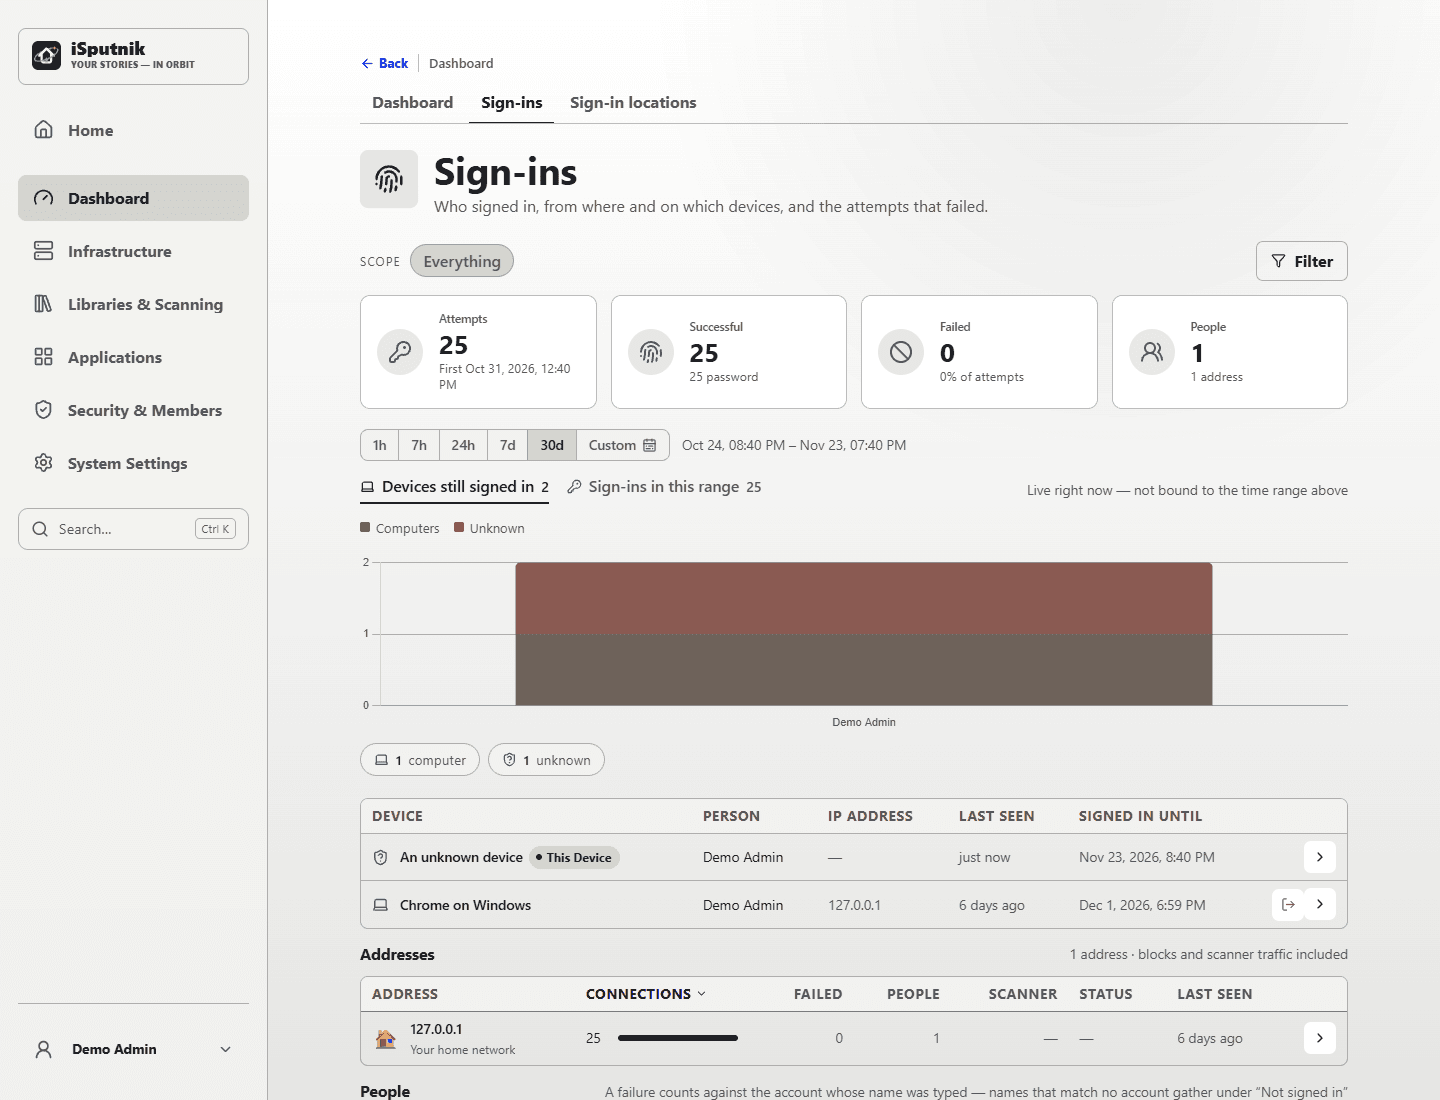
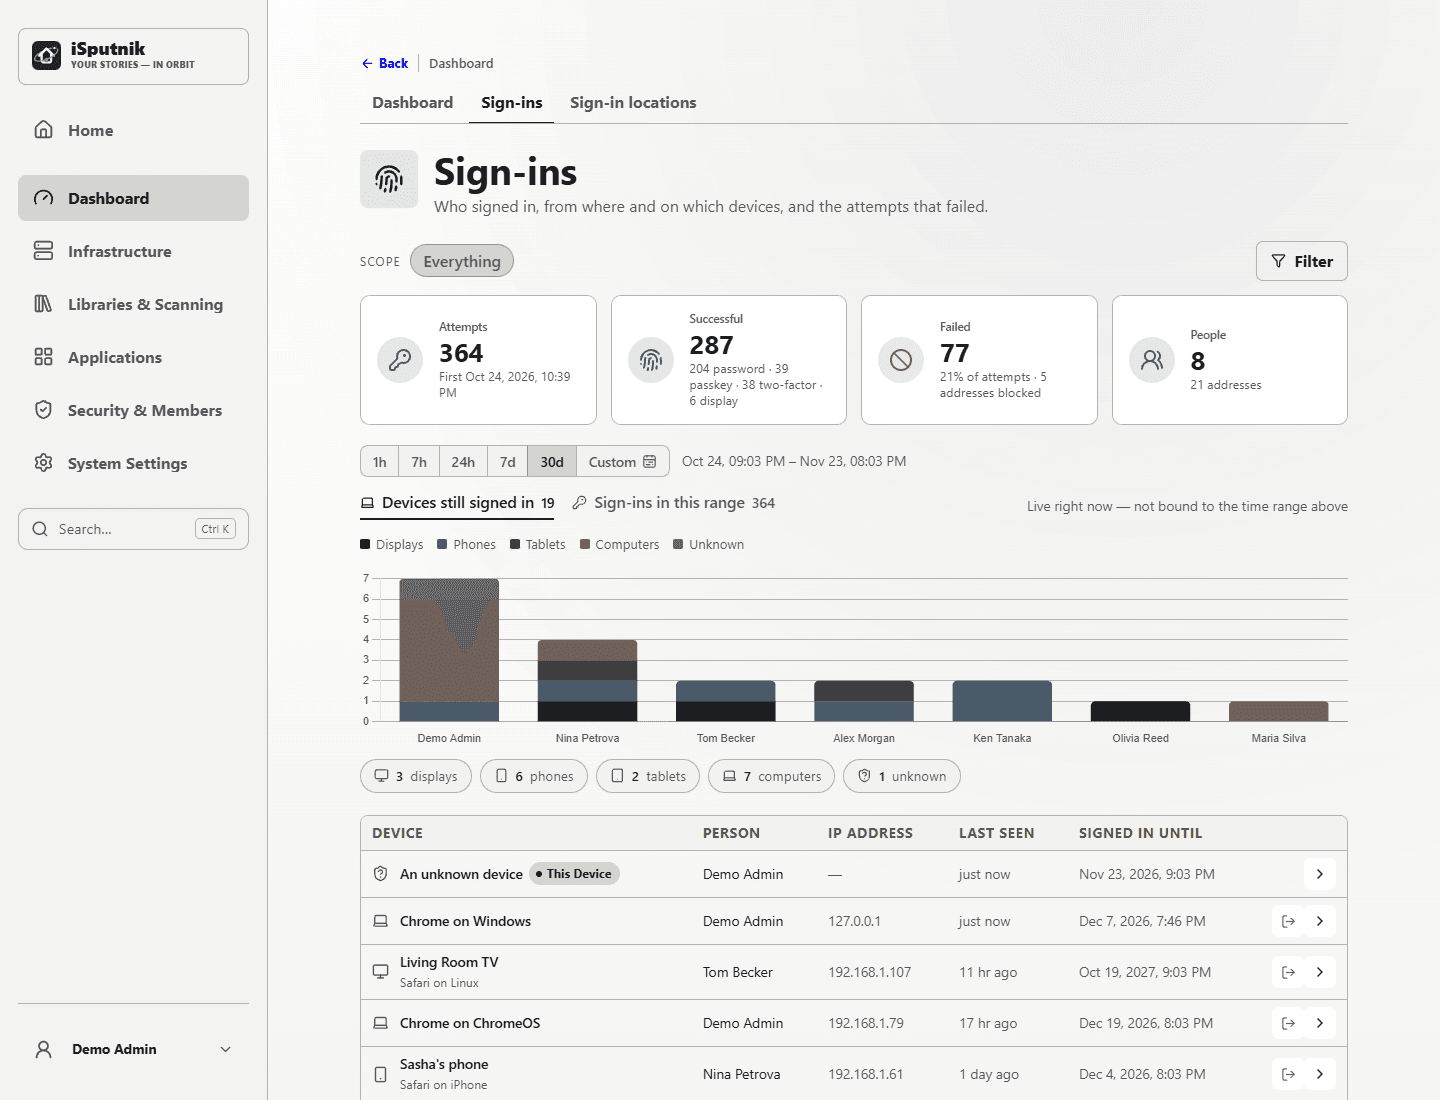
docs(guides): sign-in pictures with something to show
Sign-ins and Sign-in locations retaken with invented sign-ins seeded
into the demo site (scripts/seed-fake-logins.mjs, cleared again after):
the devices chart and list, and a world map with sign-ins from eleven
countries. The shot list records that both need the seed first.

diff --git a/docs/users/control-panel.md b/docs/users/control-panel.md
@@ -99,7 +99,7 @@ Five sections, from the top, each leading to the page that acts on it:
 Two tabs beside the Dashboard's own, at the top of the page (they were under
 Security & Members until the Dashboard took them in).
 
-![Dashboard › Sign-ins: attempts, successes and failures for the chosen window, the devices still signed in, and the addresses they came from](images/130-sign-ins.png)
+![Dashboard › Sign-ins: attempts, successes and failures for the chosen window, and the devices still signed in, by person and kind](images/130-sign-ins.png)
 
 - **Sign-ins** — who got in, from where, and what is
   still signed in. Pick a window (1h, 7h, 24h, 7d, 30d, or a custom start and
